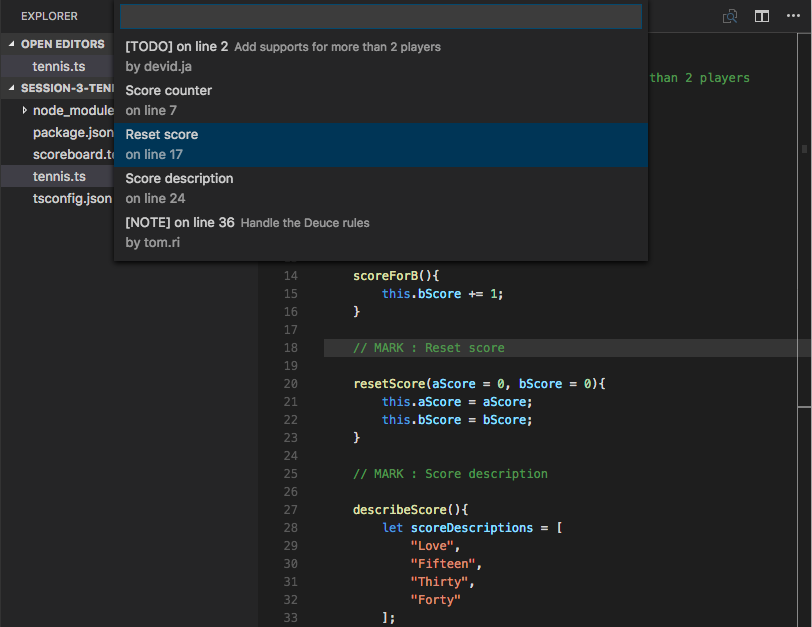
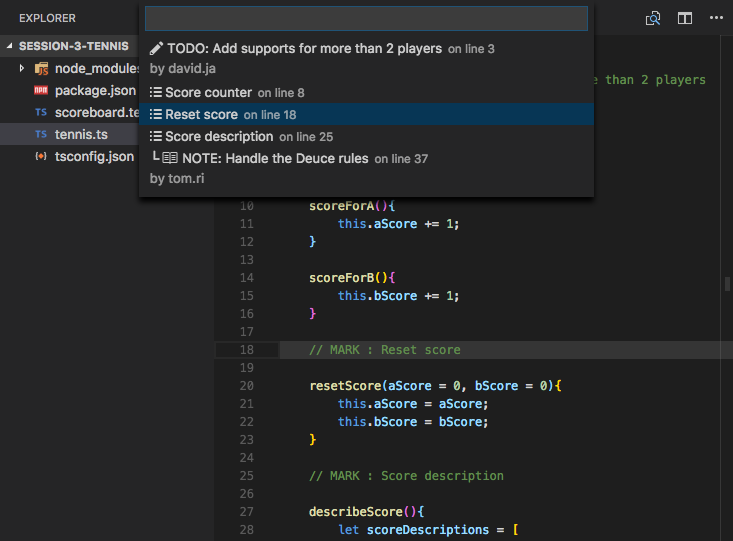
Make the marks more consistent

diff --git a/src/extension.ts b/src/extension.ts
@@ -281,32 +281,36 @@ class MarkJump {
                         this.buildHeading(
                             (mark.heading || "").length, headingSymbol
                         )
-                    }$(book) ${
-                        editor ? "" : `${path.basename(mark.uri.fsPath)} `
-                    }on line ${mark.lineNumber + 1}`;
-                    item.description = `NOTE: ${mark.description}` || "";
+                    }$(book) NOTE: ${mark.description}` || "";
+
                     item.detail = (
                         mark.writer ? `by ${mark.writer}` : undefined
                     );
+
+                    item.description = `${
+                        editor ? "" : `${path.basename(mark.uri.fsPath)} `
+                    }on line ${mark.lineNumber + 1}`;
                 }else if(mark.type === "todo"){
                     item.label = `${
                         this.buildHeading(
                             (mark.heading || "").length, headingSymbol
                         )
-                    }$(pencil) ${
-                        editor ? "" : `${path.basename(mark.uri.fsPath)} `
-                    }on line ${mark.lineNumber + 1}`;
-                    item.description = `TODO: ${mark.description}` || "";
+                    }$(pencil) TODO: ${mark.description}` || "";
+
                     item.detail = (
                         mark.writer ? `by ${mark.writer}` : undefined
                     );
+
+                    item.description = `${
+                        editor ? "" : `${path.basename(mark.uri.fsPath)} `
+                    }on line ${mark.lineNumber + 1}`;
                 }else if(mark.type === "section"){
                     item.label = `${
                         this.buildHeading(
                             (mark.heading || "").length, headingSymbol
                         )
                     }$(list-unordered) ${mark.description}` || "";
-                    item.detail = `${
+                    item.description = `${
                         editor ? "" : `${path.basename(mark.uri.fsPath)} `
                     }on line ${mark.lineNumber + 1}`;
                 }
